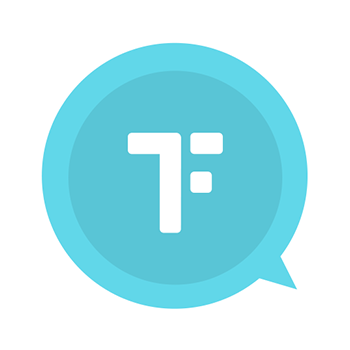
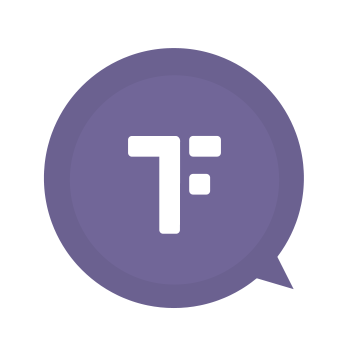
Download page update

diff --git a/ParseCloud/public/beta/css/style.css b/ParseCloud/public/beta/css/style.css
@@ -3,7 +3,11 @@ body {
 	padding: 0;
 	width: 100%;
 	height: 100%;
-	background-color: #67d7e8;
+	background-color: #716698;
+}
+
+#bravo {
+	background-color: #f1f1f1;
 }
 
 #head {
@@ -53,12 +57,12 @@ body {
 }
 
 #download p:nth-child(1) {
-	padding-top: 10px;
+	padding-top: 20px;
 	text-align: center;
 	font-family: 'Raleway', sans-serif;
-	font-weight: 800;
-	color: #489aa7;
-	font-size: 16px;
+	font-weight: 600;
+	color: #716698;
+	font-size: 14px;
 	text-transform: uppercase;
 }
 
@@ -120,6 +124,10 @@ body {
 	color: white;
 	font-size: 14px;
 	margin-left: 15px;
+}
+
+#download p:nth-child(3)#icon-bravo {
+	color:#716698;
 }
 
 #download p:nth-child(3):before {
@@ -187,19 +195,20 @@ body {
 }
 
 #success p:nth-child(1) {
-	padding-top: 75px;
+	padding-top: 90px;
 	font-family: 'Raleway', sans-serif;
 	font-size: 16px;
 	color: white;
 	text-align: center;
-	font-family: 'Raleway', sans-serif;
+	color: #716698;
 }
 
 #success p:nth-child(1) span {
-	line-height: 40px;
-	font-size: 16px;
+	line-height: 34px;
+	font-size: 20px;
 	font-weight: 800;
-	text-transform: uppercase;
+	
+
 }
 
 #success p:nth-child(1):before {
